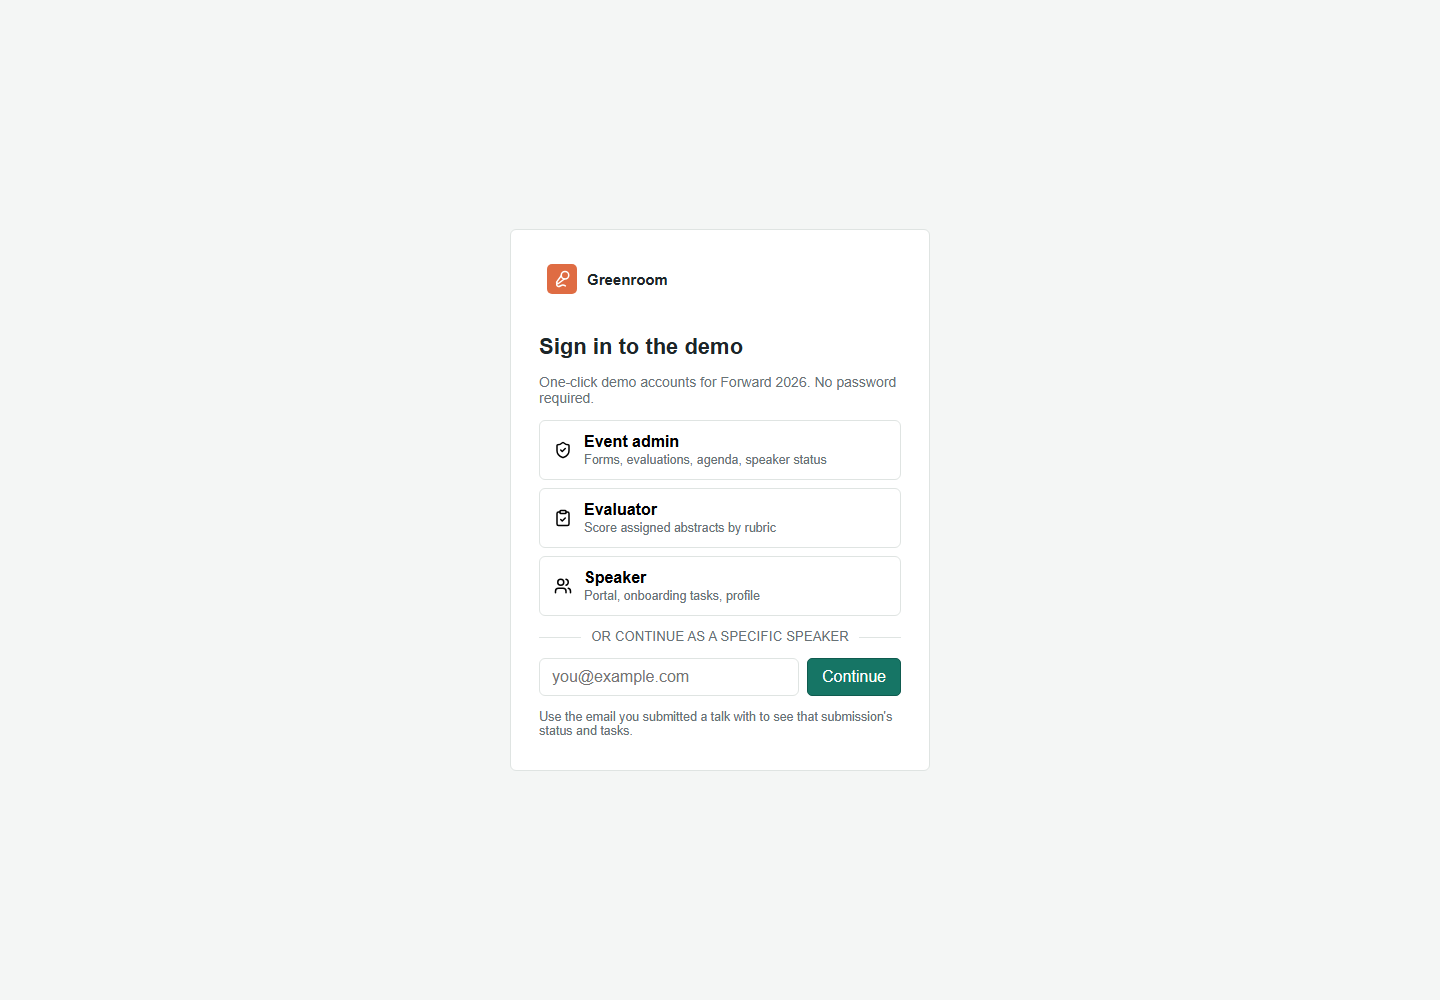
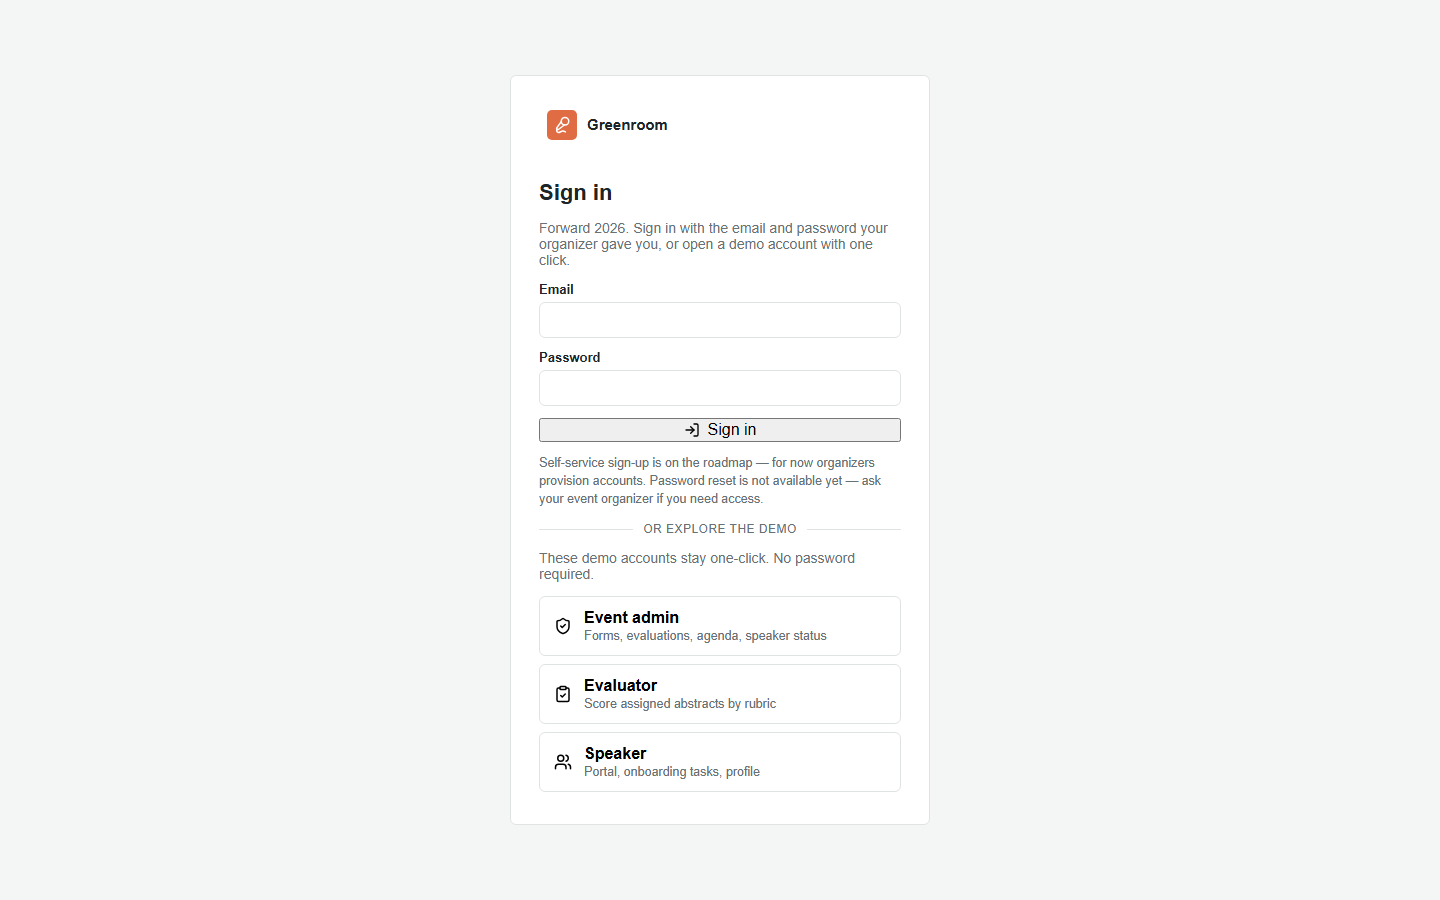
docs(judging): capture the screenshot set and record its real provenance
All 27 evidence PNGs plus capture-manifest.json, produced by
`npm run evidence:screenshots`, and the index filled in with the metadata
automation can actually know: per-row timestamp, URL path, role and
viewport (1440x900 desktop, 390x844 mobile).

The provenance is stated plainly rather than inherited from the template:
these were captured from a LOCAL production build on a disposable database,
not from the deployment, so the deployed-commit row reads `<final>` and the
contract says the judged set is re-captured from the submitted SHA by
running the same script against it. Surfaces that print an absolute URL
(admin-embeds) therefore show 127.0.0.1:3400.

Five rows are added, not substituted: the public CFP wizard and the CFP
builder are stepped, and the abstracts drawer opens over the pipeline
table, so three rows need two frames each; the other two are the mobile
captures of /embed/speakers and the public CFP, matching row 19. Two honest
gaps are recorded instead of being papered over — the fill-open-slots
preview has no "could not be placed" list because the seeded backlog is
fully placeable, and the email history holds the single mocked receipt this
run generated.

The four pre-Cycle-5 historical PNGs are replaced at their own filenames,
with the paragraph that described them now recording the replacement.

Claude-Session: https://claude.ai/code/session_01Lb1Fr7YfwYaejwsjhX36an

Changed region(s): [[0.375, 0.4356, 0.625, 0.8711], [0.375, 0.1867, 0.625, 0.4044], [0.375, 0.1244, 0.4688, 0.1556]]

diff --git a/docs/judging/SCREENSHOT-INDEX.md b/docs/judging/SCREENSHOT-INDEX.md
@@ -4,21 +4,27 @@ The primary screenshot set for judging. Every row is captured from the deployed
 application at one recorded commit, and every row carries the metadata needed to
 reproduce or challenge it.
 
-**Status: template awaiting capture.** The shot list, the required metadata
-fields, and the capture procedure below are fixed. The per-row values marked
-*fill in* are completed by the single capture owner during the coordinated
-window — no row may be filled in from memory.
+**Status: captured by automation from a LOCAL production build.** Every row
+below now has a file and per-row metadata, produced by
+[`e2e/screenshots.spec.ts`](../../e2e/screenshots.spec.ts)
+(`npm run evidence:screenshots`). Read the provenance row in the contract below
+before citing any of these as production evidence: they were taken against a
+locally built production server on a **disposable** database, not against the
+deployment. The final judged set is re-captured from the deployed commit by
+running the same script against it.
 
 ## Capture contract
 
 | Field | Value |
 | --- | --- |
-| Deployed commit | `9e058f3560a398352bbd48277ef80cb16e8550dc` |
-| Production URL | <https://greenroom-hq.com> |
-| Capture owner | *fill in* |
-| Capture window (start–end, with timezone) | *fill in* |
-| Viewport | 1440 × 1000 unless a row says otherwise |
-| Browser | headless Microsoft Edge (Chromium), fresh temporary profile |
+| Deployed commit | `<final>` — re-capture against the submitted SHA before judging |
+| Capture source | **local `next build` + `next start`** on `http://127.0.0.1:3400`, disposable database, freshly `npm run db:seed`ed |
+| Production URL | <https://greenroom-hq.com> (the surface these paths correspond to) |
+| Capture owner | `e2e/screenshots.spec.ts` (automated) |
+| Capture window (start–end, with timezone) | 2026-08-11T05:18:02Z – 2026-08-11T05:19:08Z |
+| Viewport | 1440 × 900 unless a row says otherwise |
+| Browser | headless Chromium via Playwright, fresh context per role |
+| Machine-readable record | [`screenshots/capture-manifest.json`](screenshots/capture-manifest.json) — file, path, role, viewport, capture mode and timestamp for every shot |
 
 Rules for this set:
 
@@ -34,6 +40,14 @@ Rules for this set:
   (`maya@`, `ravi@`, `sofia@greenroom-hq.com`) are the documented demo
   identities and may appear.
 - Files land in `screenshots/` beside this file, named exactly as the table says.
+- **What the automated run writes.** It reseeds, and it submits exactly one
+  proposal through the public form so the email-history row has a real dispatch
+  to show rather than an empty state. That is why it may only be pointed at a
+  disposable database; the guard in `e2e/db-guard.ts` enforces it.
+- **Capture mode.** Desktop rows are full-page captures at the stated viewport
+  width, so content below 900px is still in the file. The four dialog rows (5,
+  12, 13, 25) are viewport captures, because a modal is fixed-positioned and a
+  full-page capture would strand it above a dimmed page.
 
 ## Shot list
 
@@ -43,38 +57,88 @@ exist at this commit. `Access` is the authenticated role or `logged out`;
 
 | # | File | Surface | URL / path | Access | Mutation | Must be visible | Captured (ISO 8601 + TZ) | Viewport |
 | --- | --- | --- | --- | --- | --- | --- | --- | --- |
-| 1 | `login.png` | Sign-in | `/login` | logged out | read-only | credential form, the sign-up/reset roadmap note, and all three persona buttons | *fill in* | 1440 × 1000 |
-| 2 | `landing.png` | Public landing page | `/` | logged out | read-only | event name and dates, session/speaker/track metrics, open-CFP panel | *fill in* | 1440 × 1000 |
-| 3 | `public-cfp.png` | Public call for speakers | `/cfp/forward-2026/call-for-speakers` | logged out | read-only | topic selector, a custom question, the co-speaker block with its role field | *fill in* | 1440 × 1000 |
-| 4 | `event-settings.png` | Event settings + event creation | `/admin/settings` | ADMIN | read-only | event name/dates/timezone, rooms, groupings, and the **New event** button | *fill in* | 1440 × 1000 |
-| 5 | `new-event-dialog.png` | New event dialog | `/admin/settings` (dialog open) | ADMIN | read-only | name, web address with its `/cfp/{slug}` hint, timezone, optional dates | *fill in* | 1440 × 1000 |
-| 6 | `cfp-builder.png` | CFP form builder | `/admin/forms/[formId]` | ADMIN | read-only | question list, a conditional rule, the **Published** switch, live preview | *fill in* | 1440 × 1000 |
-| 7 | `admin-abstracts.png` | Submission pipeline | `/admin/abstracts` | ADMIN | read-only | filter chips, summary metrics, a selected proposal with its custom answers, **Export CSV** | *fill in* | 1440 × 1000 |
-| 8 | `evaluation-setup.png` | Review round setup | `/admin/evaluations` | ADMIN | read-only | rubric criteria with the `Weight … · …% of rubric weight` line, round window dates | *fill in* | 1440 × 1000 |
-| 9 | `evaluation-coverage.png` | Reviewer coverage | `/admin/evaluations` | ADMIN | read-only | the **Review coverage** table with a sorted column and its sort indicator | *fill in* | 1440 × 1000 |
-| 10 | `evaluator-workspace.png` | Reviewer workspace | `/admin/evaluations` | EVALUATOR | read-only | own queue with statuses, rubric scoring, running weighted score, **Declare a conflict** | *fill in* | 1440 × 1000 |
-| 11 | `agenda-day.png` | Agenda Day view + backlog | `/admin/agenda` | ADMIN | read-only | Day grid with room columns and the **Unscheduled backlog** strip | *fill in* | 1440 × 1000 |
-| 12 | `agenda-conflict-refusal.png` | Conflict refusal | `/admin/agenda` | ADMIN | coordinated mutation (refused write) | the server's refusal message naming what the placement collides with | *fill in* | 1440 × 1000 |
-| 13 | `agenda-fill-open-slots.png` | Assisted placement preview | `/admin/agenda` | ADMIN | read-only (preview saves nothing) | proposed placements, "could not be placed" list, **Apply**/**Discard** | *fill in* | 1440 × 1000 |
-| 14 | `speaker-portal.png` | Speaker portal | `/portal` | SPEAKER | read-only | profile completeness, confirmed sessions, the task checklist with due dates | *fill in* | 1440 × 1000 |
-| 15 | `speaker-task-form.png` | Form-carrying onboarding task | `/portal/tasks/[taskId]` | SPEAKER | read-only | a conditional question and the **Save and mark done** gate | *fill in* | 1440 × 1000 |
-| 16 | `admin-speakers.png` | Speaker readiness chase list | `/admin/speakers` | ADMIN | read-only | metrics row, per-speaker profile/task/next-due columns, overdue and status pills | *fill in* | 1440 × 1000 |
-| 17 | `admin-emails.png` | Email history | `/admin/emails` | ADMIN | read-only | per-row delivery status and outcome wording | *fill in* | 1440 × 1000 |
-| 18 | `public-schedule.png` | Public schedule | `/embed/schedule?event=forward-2026` | logged out | read-only | day tabs, search form, track filters, session details, topic/track/room chips | *fill in* | 1440 × 1000 |
-| 19 | `public-schedule-mobile.png` | Public schedule, narrow | `/embed/schedule?event=forward-2026` | logged out | read-only | the same page usable at phone width | *fill in* | 390 × 844 |
-| 20 | `public-speakers.png` | Public speaker directory | `/embed/speakers?event=forward-2026` | logged out | read-only | headshots, an expanded full profile, session links | *fill in* | 1440 × 1000 |
-| 21 | `admin-embeds.png` | Embed configuration | `/admin/embeds` | ADMIN | read-only | both copyable `<iframe>` snippets and the direct links | *fill in* | 1440 × 1000 |
-| 22 | `admin-operations.png` | Decision mail preview gate | `/admin/operations` | ADMIN | read-only | **Send it** disabled until **Preview email** has run | *fill in* | 1440 × 1000 |
+| 1 | `login.png` | Sign-in | `/login` | logged out | read-only | credential form, the sign-up/reset roadmap note, and all three persona buttons | 2026-08-11T05:18:02Z | 1440 × 900 |
+| 2 | `landing.png` | Public landing page | `/` | logged out | read-only | event name and dates, session/speaker/track metrics, open-CFP panel | 2026-08-11T05:18:06Z | 1440 × 900 |
+| 3 | `public-cfp.png` | Public call for speakers | `/cfp/forward-2026/call-for-speakers` | logged out | read-only | topic selector, a custom question, the co-speaker block with its role field | 2026-08-11T05:18:08Z | 1440 × 900 |
+| 4 | `event-settings.png` | Event settings + event creation | `/admin/settings` | ADMIN | read-only | event name/dates/timezone, rooms, groupings, and the **New event** button | 2026-08-11T05:18:23Z | 1440 × 900 |
+| 5 | `new-event-dialog.png` | New event dialog | `/admin/settings` (dialog open) | ADMIN | read-only | name, web address with its `/cfp/{slug}` hint, timezone, optional dates | 2026-08-11T05:18:23Z | 1440 × 900 |
+| 6 | `cfp-builder.png` | CFP form builder | `/admin/forms/[formId]` | ADMIN | read-only | question list, a conditional rule, the **Published** switch, live preview | 2026-08-11T05:18:26Z | 1440 × 900 |
+| 7 | `admin-abstracts.png` | Submission pipeline | `/admin/abstracts` | ADMIN | read-only | filter chips, summary metrics, a selected proposal with its custom answers, **Export CSV** | 2026-08-11T05:18:31Z | 1440 × 900 |
+| 8 | `evaluation-setup.png` | Review round setup | `/admin/evaluations` | ADMIN | read-only | rubric criteria with the `Weight … · …% of rubric weight` line, round window dates | 2026-08-11T05:18:36Z | 1440 × 900 |
+| 9 | `evaluation-coverage.png` | Reviewer coverage | `/admin/evaluations` | ADMIN | read-only | the **Review coverage** table with a sorted column and its sort indicator | 2026-08-11T05:18:37Z | 1440 × 900 |
+| 10 | `evaluator-workspace.png` | Reviewer workspace | `/admin/evaluations` | EVALUATOR | read-only | own queue with statuses, rubric scoring, running weighted score, **Declare a conflict** | 2026-08-11T05:19:00Z | 1440 × 900 |
+| 11 | `agenda-day.png` | Agenda Day view + backlog | `/admin/agenda` | ADMIN | read-only | Day grid with room columns and the **Unscheduled backlog** strip | 2026-08-11T05:18:40Z | 1440 × 900 |
+| 12 | `agenda-conflict-refusal.png` | Conflict refusal | `/admin/agenda` | ADMIN | coordinated mutation (refused write) | the server's refusal message naming what the placement collides with | 2026-08-11T05:18:42Z | 1440 × 900 |
+| 13 | `agenda-fill-open-slots.png` | Assisted placement preview | `/admin/agenda` | ADMIN | read-only (preview saves nothing) | proposed placements, "could not be placed" list, **Apply**/**Discard** | 2026-08-11T05:18:43Z | 1440 × 900 |
+| 14 | `speaker-portal.png` | Speaker portal | `/portal` | SPEAKER | read-only | profile completeness, confirmed sessions, the task checklist with due dates | 2026-08-11T05:19:05Z | 1440 × 900 |
+| 15 | `speaker-task-form.png` | Form-carrying onboarding task | `/portal/tasks/[taskId]` | SPEAKER | read-only | a conditional question and the **Save and mark done** gate | 2026-08-11T05:19:08Z | 1440 × 900 |
+| 16 | `admin-speakers.png` | Speaker readiness chase list | `/admin/speakers` | ADMIN | read-only | metrics row, per-speaker profile/task/next-due columns, overdue and status pills | 2026-08-11T05:18:47Z | 1440 × 900 |
+| 17 | `admin-emails.png` | Email history | `/admin/emails` | ADMIN | read-only | per-row delivery status and outcome wording | 2026-08-11T05:18:50Z | 1440 × 900 |
+| 18 | `public-schedule.png` | Public schedule | `/embed/schedule?event=forward-2026` | logged out | read-only | day tabs, search form, track filters, session details, topic/track/room chips | 2026-08-11T05:18:10Z | 1440 × 900 |
+| 19 | `public-schedule-mobile.png` | Public schedule, narrow | `/embed/schedule?event=forward-2026` | logged out | read-only | the same page usable at phone width | 2026-08-11T05:18:14Z | 390 × 844 |
+| 20 | `public-speakers.png` | Public speaker directory | `/embed/speakers?event=forward-2026` | logged out | read-only | headshots, an expanded full profile, session links | 2026-08-11T05:18:12Z | 1440 × 900 |
+| 21 | `admin-embeds.png` | Embed configuration | `/admin/embeds` | ADMIN | read-only | both copyable `<iframe>` snippets and the direct links | 2026-08-11T05:18:52Z | 1440 × 900 |
+| 22 | `admin-operations.png` | Decision mail preview gate | `/admin/operations` | ADMIN | read-only | **Send it** disabled until **Preview email** has run | 2026-08-11T05:18:55Z | 1440 × 900 |
+| 23 | `public-cfp-participants.png` | Public call for speakers, Participants step | `/cfp/forward-2026/call-for-speakers` | logged out | read-only | the co-speaker block with its role field (row 3's third item — see the note below) | 2026-08-11T05:18:08Z | 1440 × 900 |
+| 24 | `cfp-builder-settings.png` | CFP form builder, Form settings step | `/admin/forms/[formId]` | ADMIN | read-only | the **Published** switch, the submission window and the speaker limits (row 6's third item — see the note below) | 2026-08-11T05:18:26Z | 1440 × 900 |
+| 25 | `admin-abstracts-drawer.png` | Submission pipeline, one proposal open | `/admin/abstracts` (drawer open) | ADMIN | read-only | the decision summary and score-by-criterion, the review notes, and the custom answers under their original question labels (row 7's third item — see the note below) | 2026-08-11T05:18:32Z | 1440 × 900 |
+| 26 | `public-speakers-mobile.png` | Public speaker directory, narrow | `/embed/speakers?event=forward-2026` | logged out | read-only | the same page usable at phone width | 2026-08-11T05:18:17Z | 390 × 844 |
+| 27 | `public-cfp-mobile.png` | Public call for speakers, narrow | `/cfp/forward-2026/call-for-speakers` | logged out | read-only | the same form usable at phone width | 2026-08-11T05:18:18Z | 390 × 844 |
 
 Rows 12 and 13 are the safety evidence called for by the contract: a visible
 server refusal, and an assisted placement that writes nothing until applied.
 Row 12 is the only row that requires a write attempt — the write is *refused*,
 so it leaves no residue, but capture it inside the announced window anyway.
 
+**Rows 23–25 exist because three surfaces cannot show everything their row asks
+for in one frame.** The public CFP form is a four-step wizard (its topic
+selector and custom questions are on the *Submission* step, its co-speaker role
+field on the *Participants* step); the CFP builder is stepped the same way (the
+question list and live preview on *Form questions*, the **Published** switch on
+*Form settings*); and the abstracts drawer opens over the pipeline table, so the
+filter chips and **Export CSV** are in row 7's frame and the selected proposal's
+answers are in row 25's. Nothing is missing from the set — it takes two files
+instead of one. Rows 26–27 are the responsive evidence for the other two public
+surfaces, matching row 19.
+
+Two honest gaps in what the automated set could produce, both properties of the
+seeded data rather than of the capture:
+
+- **Row 13** shows the proposed placements and **Apply**/**Discard**, but no
+  "could not be placed" list — with the seeded backlog every talk *can* be
+  placed, so that list is legitimately empty. A shot of it requires a backlog
+  the scheduler cannot satisfy.
+- **Row 17** shows one row, the submission receipt the capture run itself
+  generated. It is a real dispatch with a truthful `Mocked — not delivered`
+  status, because this deployment runs in mock mode; it is not a picture of a
+  busy log.
+
 ## Capture procedure
 
-Public, logged-out rows reproduce from a clean profile with no session. Run from
-the repository root and pass `--screenshot` an **absolute** path:
+The whole set is scripted. From the repository root:
+
+```powershell
+npm run build                                   # the suites drive `next start`
+$env:E2E_EXPECTED_DB = "<substring of the DISPOSABLE DATABASE_URL host>"
+npm run evidence:screenshots
+```
+
+Every row above is captured in one pass, into `screenshots/`, with
+`capture-manifest.json` written beside them. The script reseeds first, signs in
+as the persona each row's `Access` column names using a fresh browser context
+per role (so "logged out" really means a context that never held a session), and
+drives the dialog and refusal rows through the real UI rather than staging them.
+
+It refuses to run unless `E2E_EXPECTED_DB` matches the `DATABASE_URL` it
+resolves and the target is loopback — see
+[`e2e/README.md`](../../e2e/README.md). Do not point it at production or the
+shared demo database.
+
+### Manual fallback (capturing against the deployment)
+
+Public, logged-out rows also reproduce by hand from a clean profile with no
+session. Run from the repository root and pass `--screenshot` an **absolute**
+path:
 
 ```powershell
 $edge = 'C:\Program Files (x86)\Microsoft\Edge\Application\msedge.exe'
@@ -103,18 +167,18 @@ secret is on screen.
 
 ## Historical screenshots
 
-The four PNGs currently in [`screenshots/`](screenshots/) — `login.png`,
-`public-cfp.png`, `public-schedule.png`, `public-speakers.png` — are
+Four PNGs previously in [`screenshots/`](screenshots/) — `login.png`,
+`public-cfp.png`, `public-schedule.png`, `public-speakers.png` — were
 **historical**. They were captured on **2026-08-08** from the then-canonical
 Vercel deployment `https://greenroom-omega-dusky.vercel.app`, before the
 canonical-domain cutover and before the Cycle 5 work (landing page, enriched
-embeds, credential login, event-scoped CFP URLs) landed. They are not fresh
-captures of the current domain and must not be presented as current evidence.
+embeds, credential login, event-scoped CFP URLs) landed.
 
-When the rows above are captured, the new files replace them at the same
-filenames where the names collide (1, 3, 18, 20); the per-row metadata in this
-table is then the record for each file, and the paragraph above becomes the
-record of what was replaced.
+**They have now been replaced** at those same four filenames by the automated
+capture recorded in the table above (rows 1, 3, 18, 20). The per-row metadata in
+that table is the record for each file, and this paragraph is the record of what
+was replaced. The pre-Cycle-5 originals are recoverable from git history if
+anyone needs to compare.
 
 ## Related evidence
 
